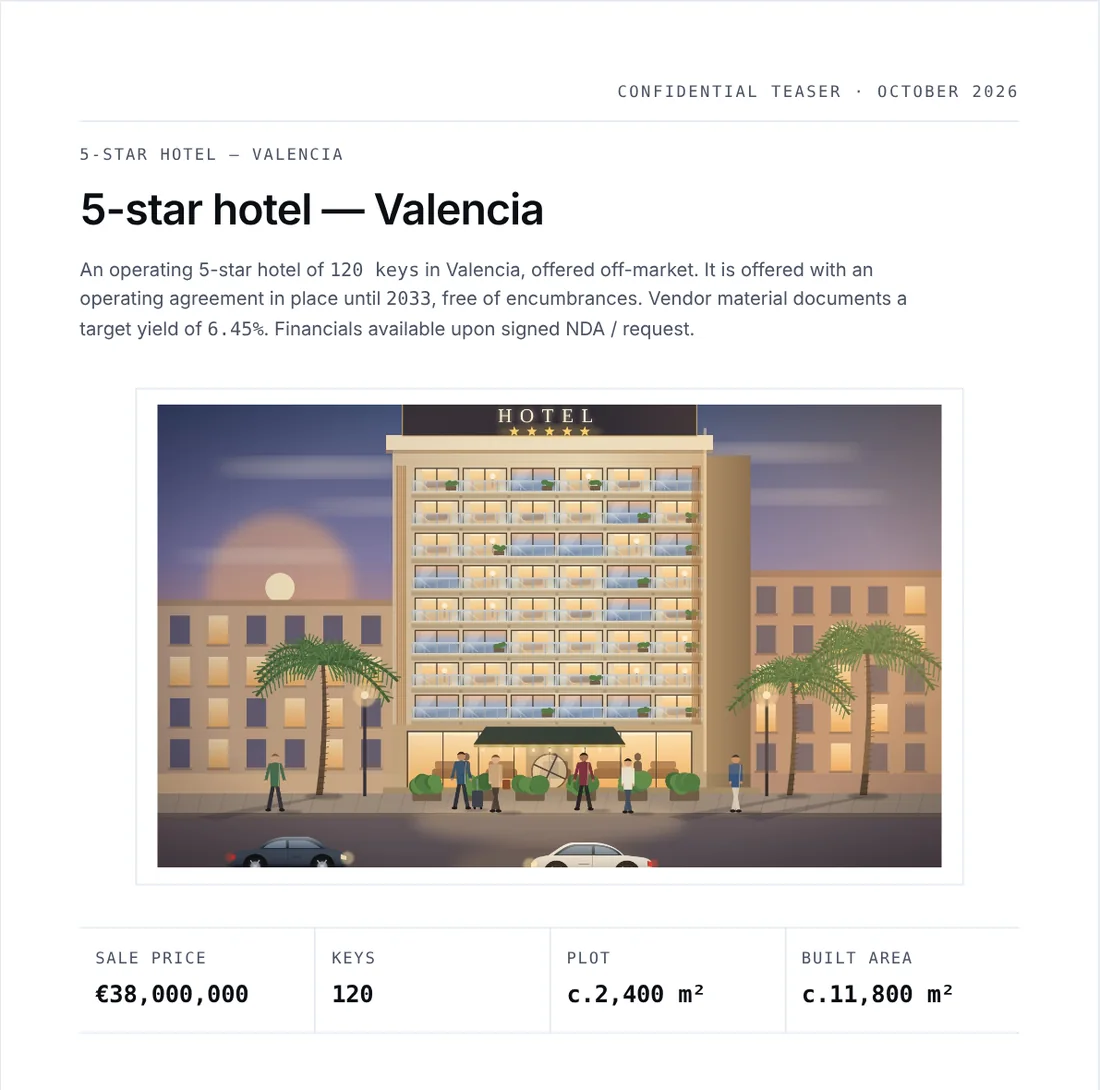
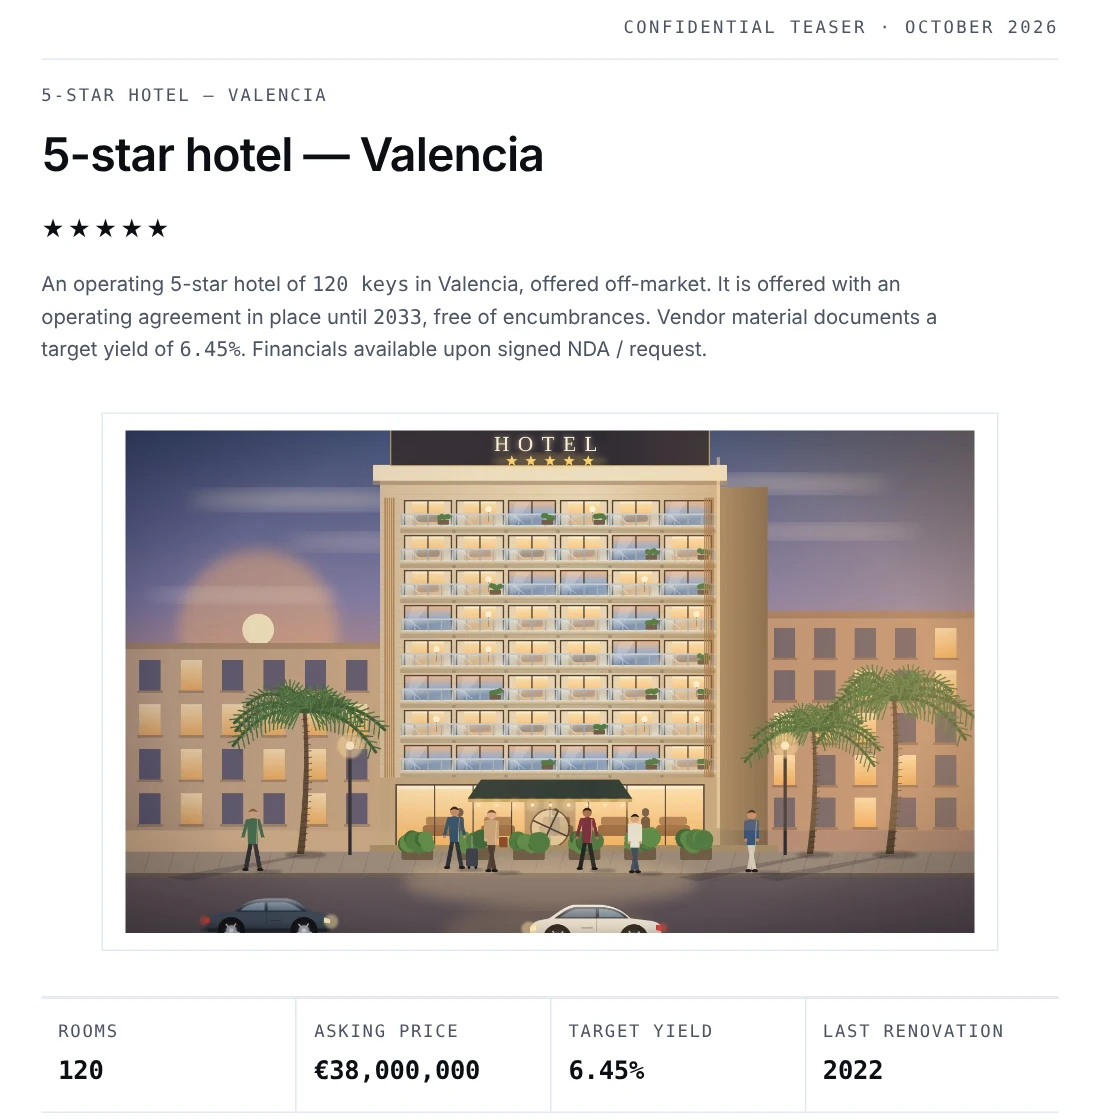
Hero: portada del teaser de hotel nueva (estrellas y datos clave)
Claude-Session: https://claude.ai/code/session_012ZKGi8uYrAkbwXACGn8c6A

diff --git a/index.html b/index.html
@@ -72,7 +72,7 @@
             </div>
           </div>
           <div class="hero-product shots" aria-label="Product preview: real app screens with fictional data">
-            <img class="hs hs-teaser" src="/app/teaser-cover-crop.webp" width="1100" height="1090" alt="Anonymous institutional teaser generated by Loptor CRE: title, photo and key figures" fetchpriority="high" />
+            <img class="hs hs-teaser" src="/app/teaser-cover-crop.webp" width="1100" height="1120" alt="Anonymous institutional teaser generated by Loptor CRE: title, photo and key figures" fetchpriority="high" />
             <img class="hs hs-kpis" src="/app/kpis.webp" width="1400" height="172" alt="Key figures, each with its source document and cell" />
             <p class="hs-note" data-i18n="shots.note">Real app screens · fictional data</p>
           </div>

diff --git a/app.js b/app.js
@@ -351,7 +351,7 @@ applyTranslations();
   const VARS = ['--hp-h', '--hp-bh', '--hp-th', '--hp-total'];
   const GAP = 14;
   const BANNER = 172 / 1400; // alto / ancho de la franja de cifras
-  const COVER = 1090 / 1100; // alto / ancho de la portada recortada
+  const COVER = 1120 / 1100; // alto / ancho de la portada recortada
   function layout() {
     if (!mq.matches) { VARS.forEach((v) => prod.style.removeProperty(v)); return; }
     const eyebrow = copy.querySelector('.eyebrow');
